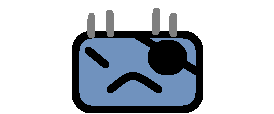
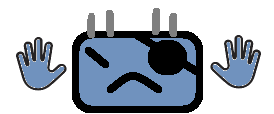
.

Changed region(s): [[0.7591, 0.2895, 0.9635, 0.7895], [0.0584, 0.3158, 0.2628, 0.8158]]

diff --git a/main.js b/main.js
@@ -208,15 +208,17 @@ function drawGame() {
 		// characters
 		for (const roomCharacter of state.room.characters || []) {
 			const character = characters[roomCharacter.id];
+
+			character.move(roomCharacter);
+			// console.log(roomCharacter.width * state.room.width);
+			roomCharacter.location.x = Math.min(1 - (character.width / state.room.width), roomCharacter.location.x);
+			roomCharacter.location.x = Math.max(0, roomCharacter.location.x);
+			roomCharacter.location.y = Math.min(1 - (character.height / state.room.height), roomCharacter.location.y);
+			roomCharacter.location.y = Math.max(0, roomCharacter.location.y);
+
 			const x = ((1 - state.room.width) / 2 + (roomCharacter.location.x * state.room.width)) * canvas.width;
 			const y = ((1 - state.room.height) / 2 + (roomCharacter.location.y * state.room.height)) * canvas.height;
 			ctx.drawImage(characterImages[roomCharacter.id], x, y, character.width * canvas.width, character.height * canvas.height);
-
-			character.move(roomCharacter);
-			roomCharacter.location.x = Math.min(state.room.width + character.width, roomCharacter.location.x);
-			roomCharacter.location.x = Math.max(0, roomCharacter.location.x);
-			roomCharacter.location.y = Math.min(state.room.height + character.height, roomCharacter.location.y);
-			roomCharacter.location.y = Math.max(0, roomCharacter.location.y);
 		}
 	}
 	{

diff --git a/characters.js b/characters.js
@@ -45,7 +45,7 @@ characters = {
 		],
 	},
 	doomScreen: {
-		animInterval: 120,
+		animInterval: 400,
 		width: 0.12,
 		height: 0.12,
 		standing: [
@@ -55,6 +55,14 @@ characters = {
 			'doom screen standing 04.png',
 			'doom screen standing 03.png',
 			'doom screen standing 02.png',
+		],
+		move: moveFuncs.random
+	},
+	zlakik: {
+		width: 0.1,
+		height: 0.06,
+		standing: [
+			'zlakik 01.png'
 		],
 		move: moveFuncs.random
 	}

diff --git a/rooms.js b/rooms.js
@@ -72,6 +72,15 @@ rooms = [
 					y: 0.7
 				}
 			}
+		],
+		characters: [
+			{
+				id: 'zlakik',
+				location: {
+					x: 0.2,
+					y: 0.2
+				}
+			},
 		]
 	}, {
 		id: 3,
